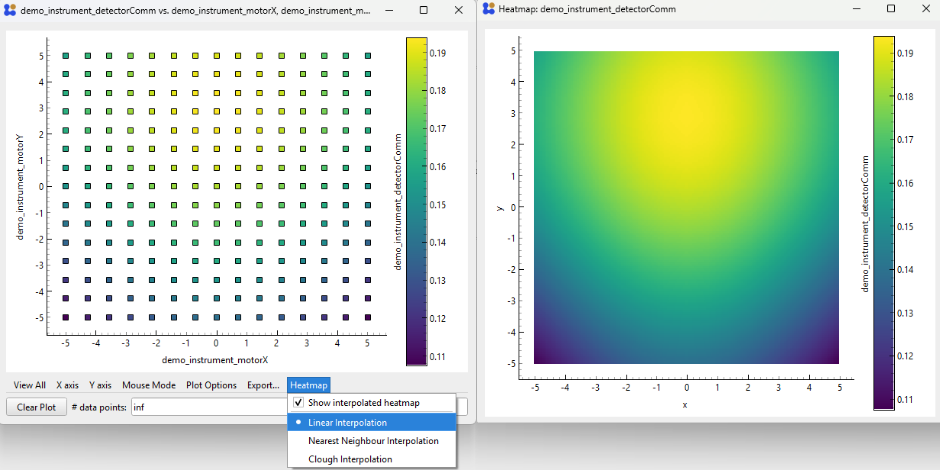
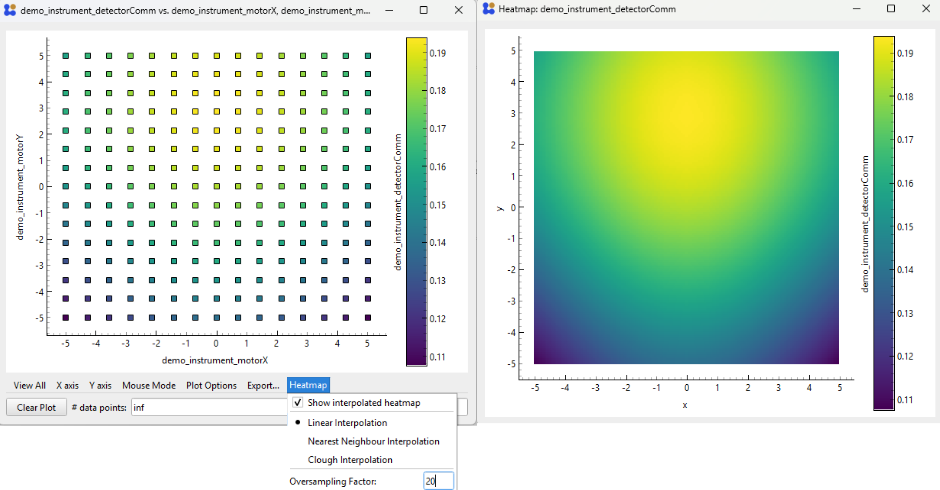
add changeable oversampling factor to the menu for the heatmap

diff --git a/nomad_camels/main_classes/plot_pyqtgraph.py b/nomad_camels/main_classes/plot_pyqtgraph.py
@@ -27,6 +27,8 @@ from PySide6.QtWidgets import (
     QComboBox,
     QColorDialog,
     QApplication,
+    QWidgetAction,
+    QHBoxLayout,
 )
 from PySide6.QtCore import Signal, QObject, QEvent, Qt
 from PySide6.QtGui import QIcon, QColor, QTransform, QAction, QActionGroup
@@ -1460,17 +1462,64 @@ class PlotWidget_2D(QWidget):
         # Connect the checkbox's 'toggled' signal to the 'setEnabled' slot
         self.show_heatmap_action.toggled.connect(self.linear_action.setEnabled)
         self.show_heatmap_action.toggled.connect(self.nearest_action.setEnabled)
+        
+        # Add changeable interpolation oversampling factor
+        heatmap_menu.addSeparator()
+
+        # Create the QWidgetAction
+        self.factor_action = QWidgetAction(self)
+        
+        # Create the container widget and layout
+        factor_widget = QWidget()
+        factor_layout = QHBoxLayout(factor_widget)
+        factor_layout.setContentsMargins(4, 2, 4, 2) # Tweak spacing
+
+        # Create the label and line edit
+        factor_label = QLabel("Oversampling Factor:")
+        self.interp_factor_edit = FactorLineEdit("10") # Default value
+        self.interp_factor_edit.setFixedWidth(40) # Keep it small
+        
+        # Add widgets to layout
+        factor_layout.addWidget(factor_label)
+        factor_layout.addWidget(self.interp_factor_edit)
+        
+        # Set the widget for the QWidgetAction
+        self.factor_action.setDefaultWidget(factor_widget)
+        heatmap_menu.addAction(self.factor_action)
+
+        # Connect the QLineEdit's "Enter" signal
+        self.interp_factor_edit.returnPressed.connect(self.on_interp_factor_changed)
+        self.factor_action.setEnabled(False) # Disabled by default   
+        self.show_heatmap_action.toggled.connect(self.factor_action.setEnabled)  
+        
         self.layout().addWidget(self.toolbar, 1, 0, 1, 3)
 
+    def on_interp_factor_changed(self):
+        """
+        Called when user presses Enter in the factor line edit.
+        Validates the text and sends the integer to LivePlot_2D.
+        """
+        try:
+            # Try to convert text to a positive integer
+            factor = int(self.interp_factor_edit.text())
+            if factor > 0:
+                # If valid, send it to the live plot
+                self.livePlot.set_interpolation_factor(factor)
+            else:
+                # If 0 or negative, reset text to the current good value
+                current_factor = self.livePlot.interpolation_factor
+                self.interp_factor_edit.setText(str(current_factor))
+        except ValueError:
+            # If not an integer (e.g., "abc"), reset to current good value
+            current_factor = self.livePlot.interpolation_factor
+            self.interp_factor_edit.setText(str(current_factor))
+    
     def on_heatmap_closed_by_user(self):
         """
         This slot is called when the LivePlot_2D class emits 'heatmap_closed'.
         It unchecks the action to keep the UI in sync with the closed heatmap.
         """
-        # Block signals to prevent a loop (unchecking emits toggled(False))
-        self.show_heatmap_action.blockSignals(True)
         self.show_heatmap_action.setChecked(False)
-        self.show_heatmap_action.blockSignals(False)
     
     def clear_plot(self):
         self.livePlot.clear_plot()
@@ -1529,6 +1578,7 @@ class LivePlot_2D(QObject, CallbackBase):
         self.heatmap_window = None
         self.show_heatmap = False # Flag to control heatmap visibility
         self.interpolation_method = "linear" # Default interpolation for heatmap
+        self.interpolation_factor = 10 # Default interpolation factor is 10. Can be changed by the Heatmap menu
 
     def __call__(self, name, doc, *, escape=False):
         if not escape and self.__teleporter is not None:
@@ -1711,6 +1761,7 @@ class LivePlot_2D(QObject, CallbackBase):
                 zlabel=self.z,
             )
             # Connect the window's destroyed signal to our slot
+            self.heatmap_window.setAttribute(Qt.WA_DeleteOnClose)
             self.heatmap_window.destroyed.connect(self.on_heatmap_window_closed)
 
         # Show and update the window
@@ -1722,6 +1773,16 @@ class LivePlot_2D(QObject, CallbackBase):
             float(np.max(self.z_data)),
         )
 
+    def set_interpolation_factor(self, factor: int):
+        """
+        Slot to update the interpolation oversampling factor
+        from PlotWidget_2D.
+        """
+        self.interpolation_factor = factor
+        # If heatmap is active, redraw it with the new factor
+        if self.show_heatmap:
+            self.update_heatmap_window()
+    
     def set_interpolation(self, method):
         """Slot called by PlotWidget_2D's radio buttons setting the interpolation type"""
         self.interpolation_method = method
@@ -1878,7 +1939,7 @@ class LivePlot_2D(QObject, CallbackBase):
         base_width, base_height = self.estimate_image_resolution(positions)
 
         # Apply oversampling factor
-        factor = 10  # TODO hard coded sampling factor. modify this.
+        factor = self.interpolation_factor  # TODO hard coded sampling factor. modify this.
 
         # Apply oversampling
         width = int(base_width * factor)
@@ -1934,6 +1995,23 @@ class LivePlot_2D(QObject, CallbackBase):
 
         return max(1, width_pixels), max(1, height_pixels)
 
+class FactorLineEdit(QLineEdit):
+    """
+    A QLineEdit that consumes the Enter/Return key press
+    to prevent it from propagating to a parent QMenu.
+    """
+    def keyPressEvent(self, event):
+        key = event.key()
+        
+        # Check if the pressed key is Enter or Return
+        if key == Qt.Key_Return or key == Qt.Key_Enter:
+            # We got the key, so emit the signal we care about
+            self.returnPressed.emit()
+            # CRITICAL: Accept the event to stop it from bubbling up
+            event.accept()
+        else:
+            # For all other keys, behave like a normal QLineEdit
+            super().keyPressEvent(event)
 
 class LivePlot_NoBluesky(QObject):
     new_data_signal = Signal()

diff --git a/README.md b/README.md
@@ -20,10 +20,11 @@ Please also see our publication in the Journal of Open Source Software (JOSS):
 
 ### 1.10.4
 Features:
-- Added the option to display an interpolated heatmap to 2D plots. The toolbar now has the option `Heatmap` where you can enable/disable the heatmap and also choose from three different interpolation methods: 
+- Added the option to display an oversampled and interpolated heatmap to the 2D plots. The toolbar now has the option `Heatmap` where you can enable/disable the heatmap and also choose from three different interpolation methods: 
     1. Linear
     2. Nearest Neighbor
     3. Clough-Tocher
+  You can also set the oversampling factor (default: 10) which defines how many interpolated points are created between the measured points in each direction. Higher values lead to smoother heatmaps but also increase computation time. Nearest Neighbor interpolation does NOT use the oversampling factor.
   ![CAMELS heatmap](./assets/CAMELS_heatmap.png)
 
 ### 1.10.3
